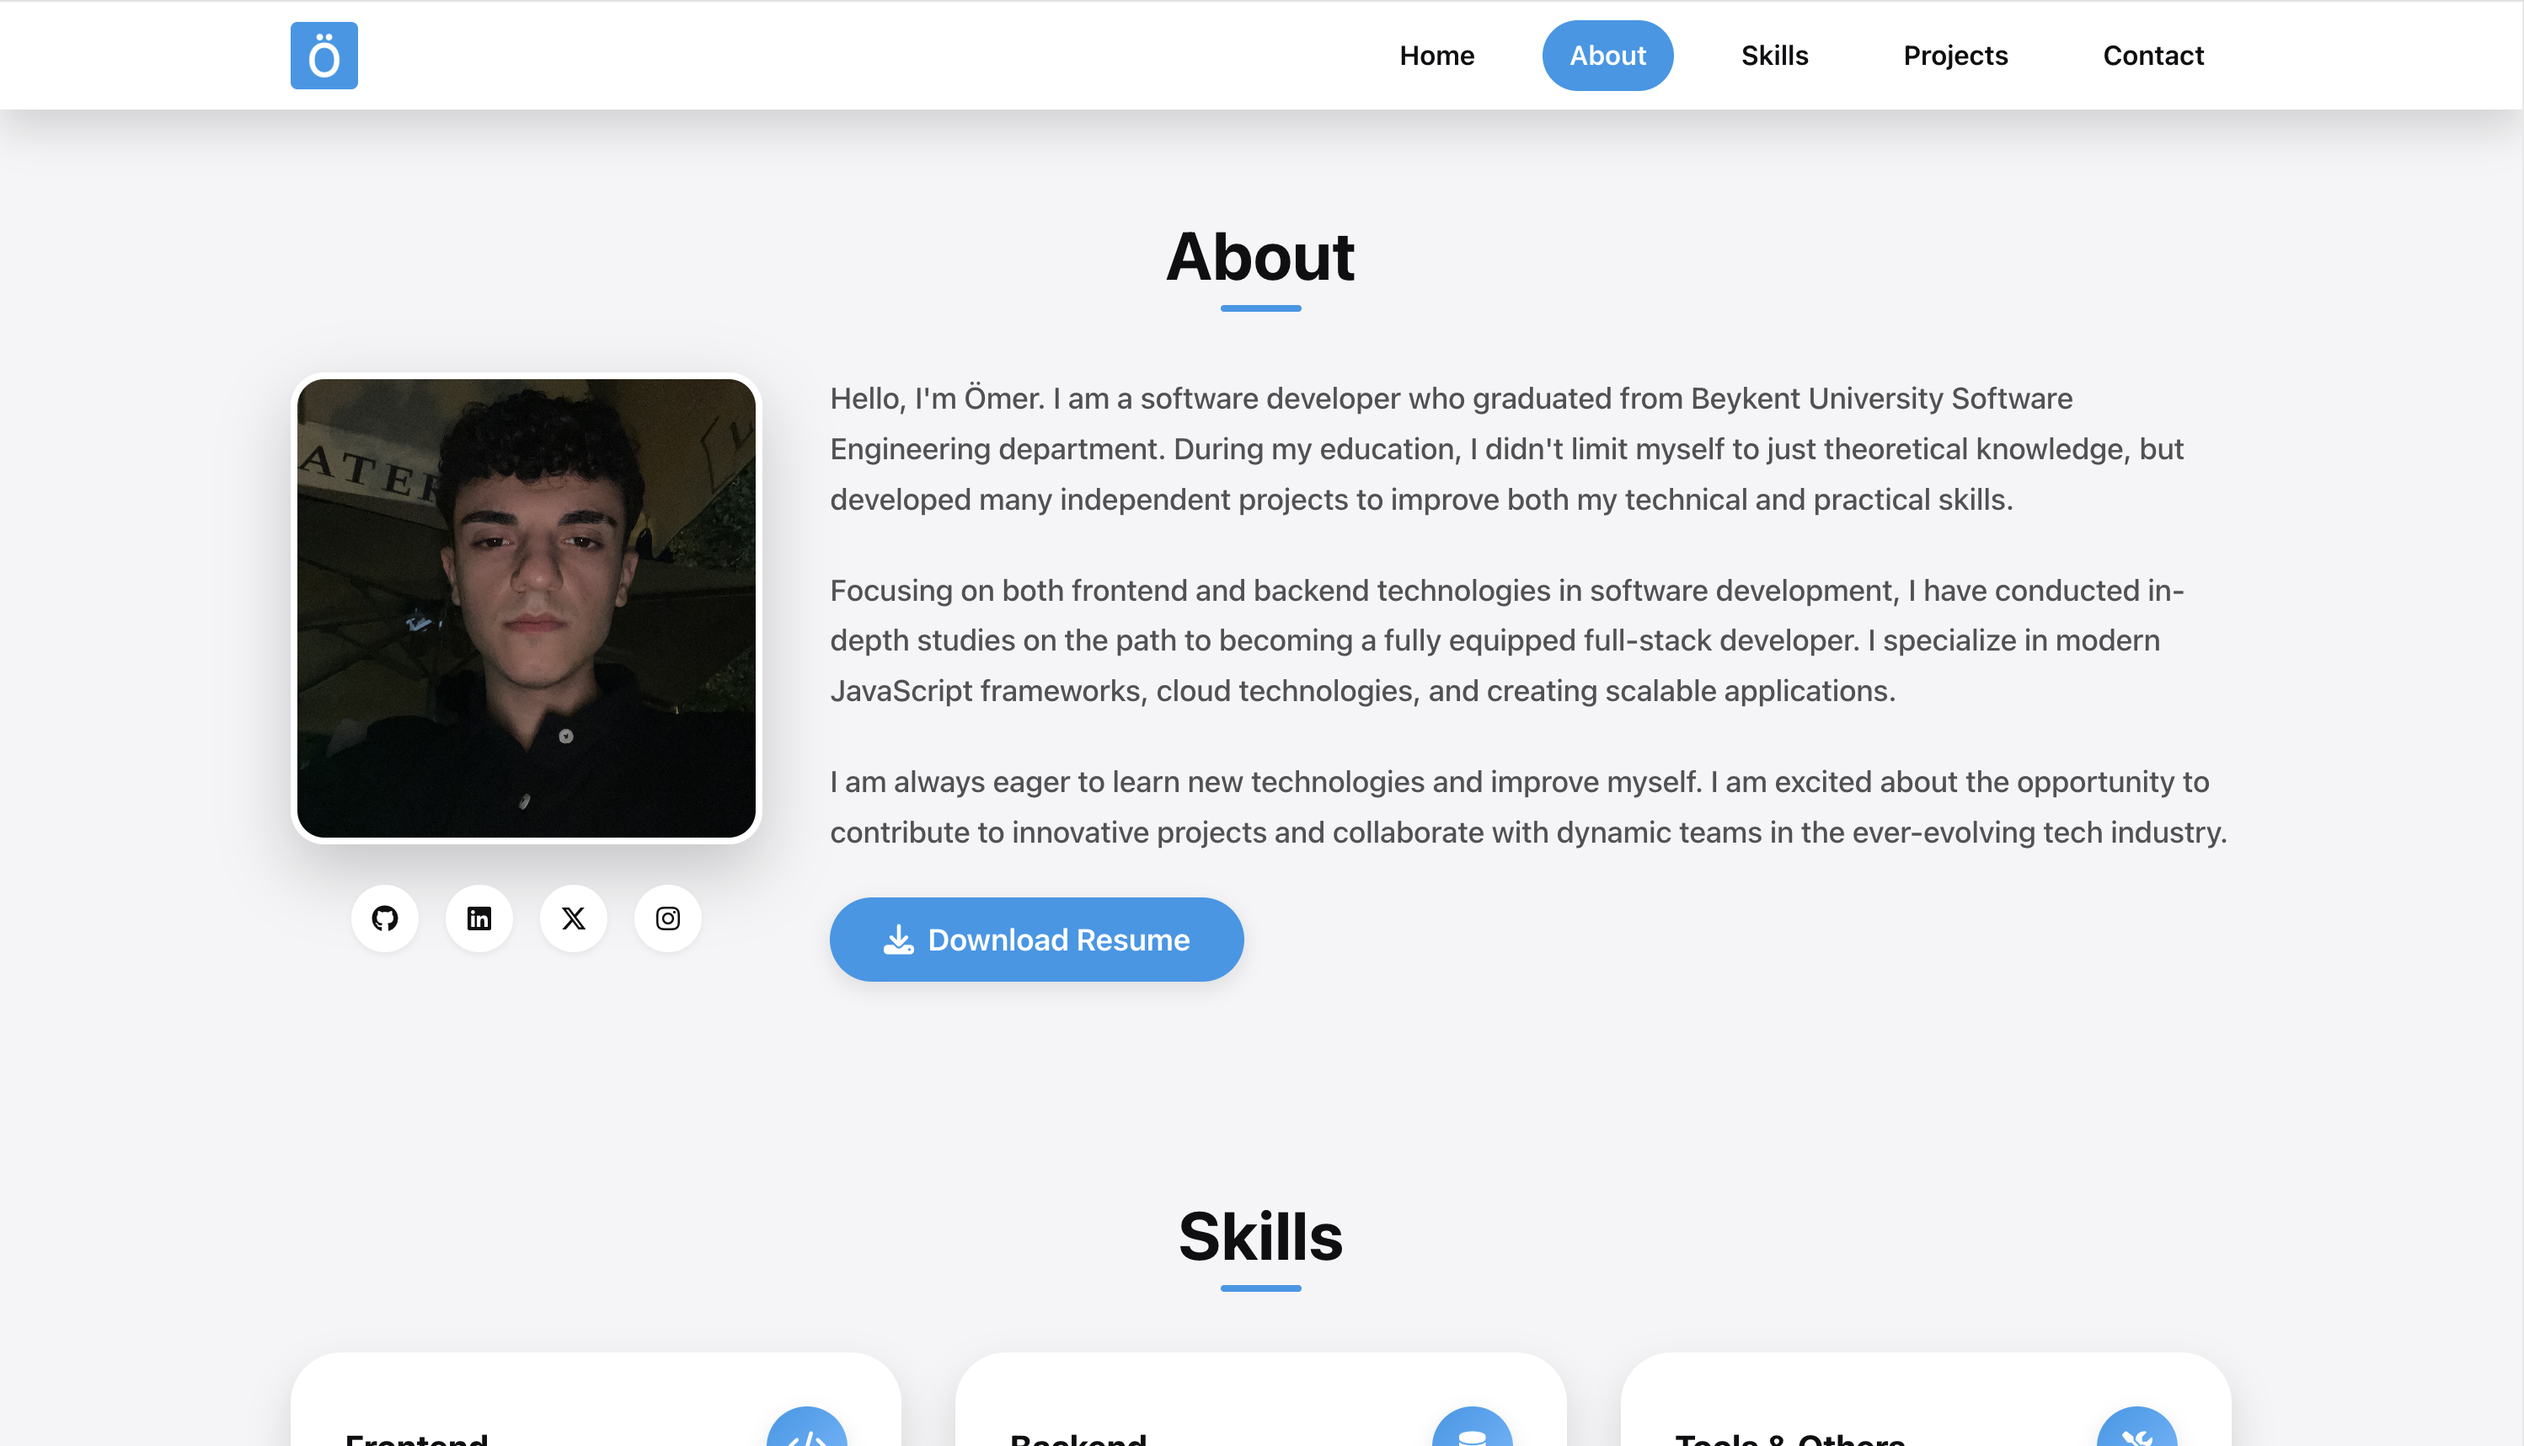
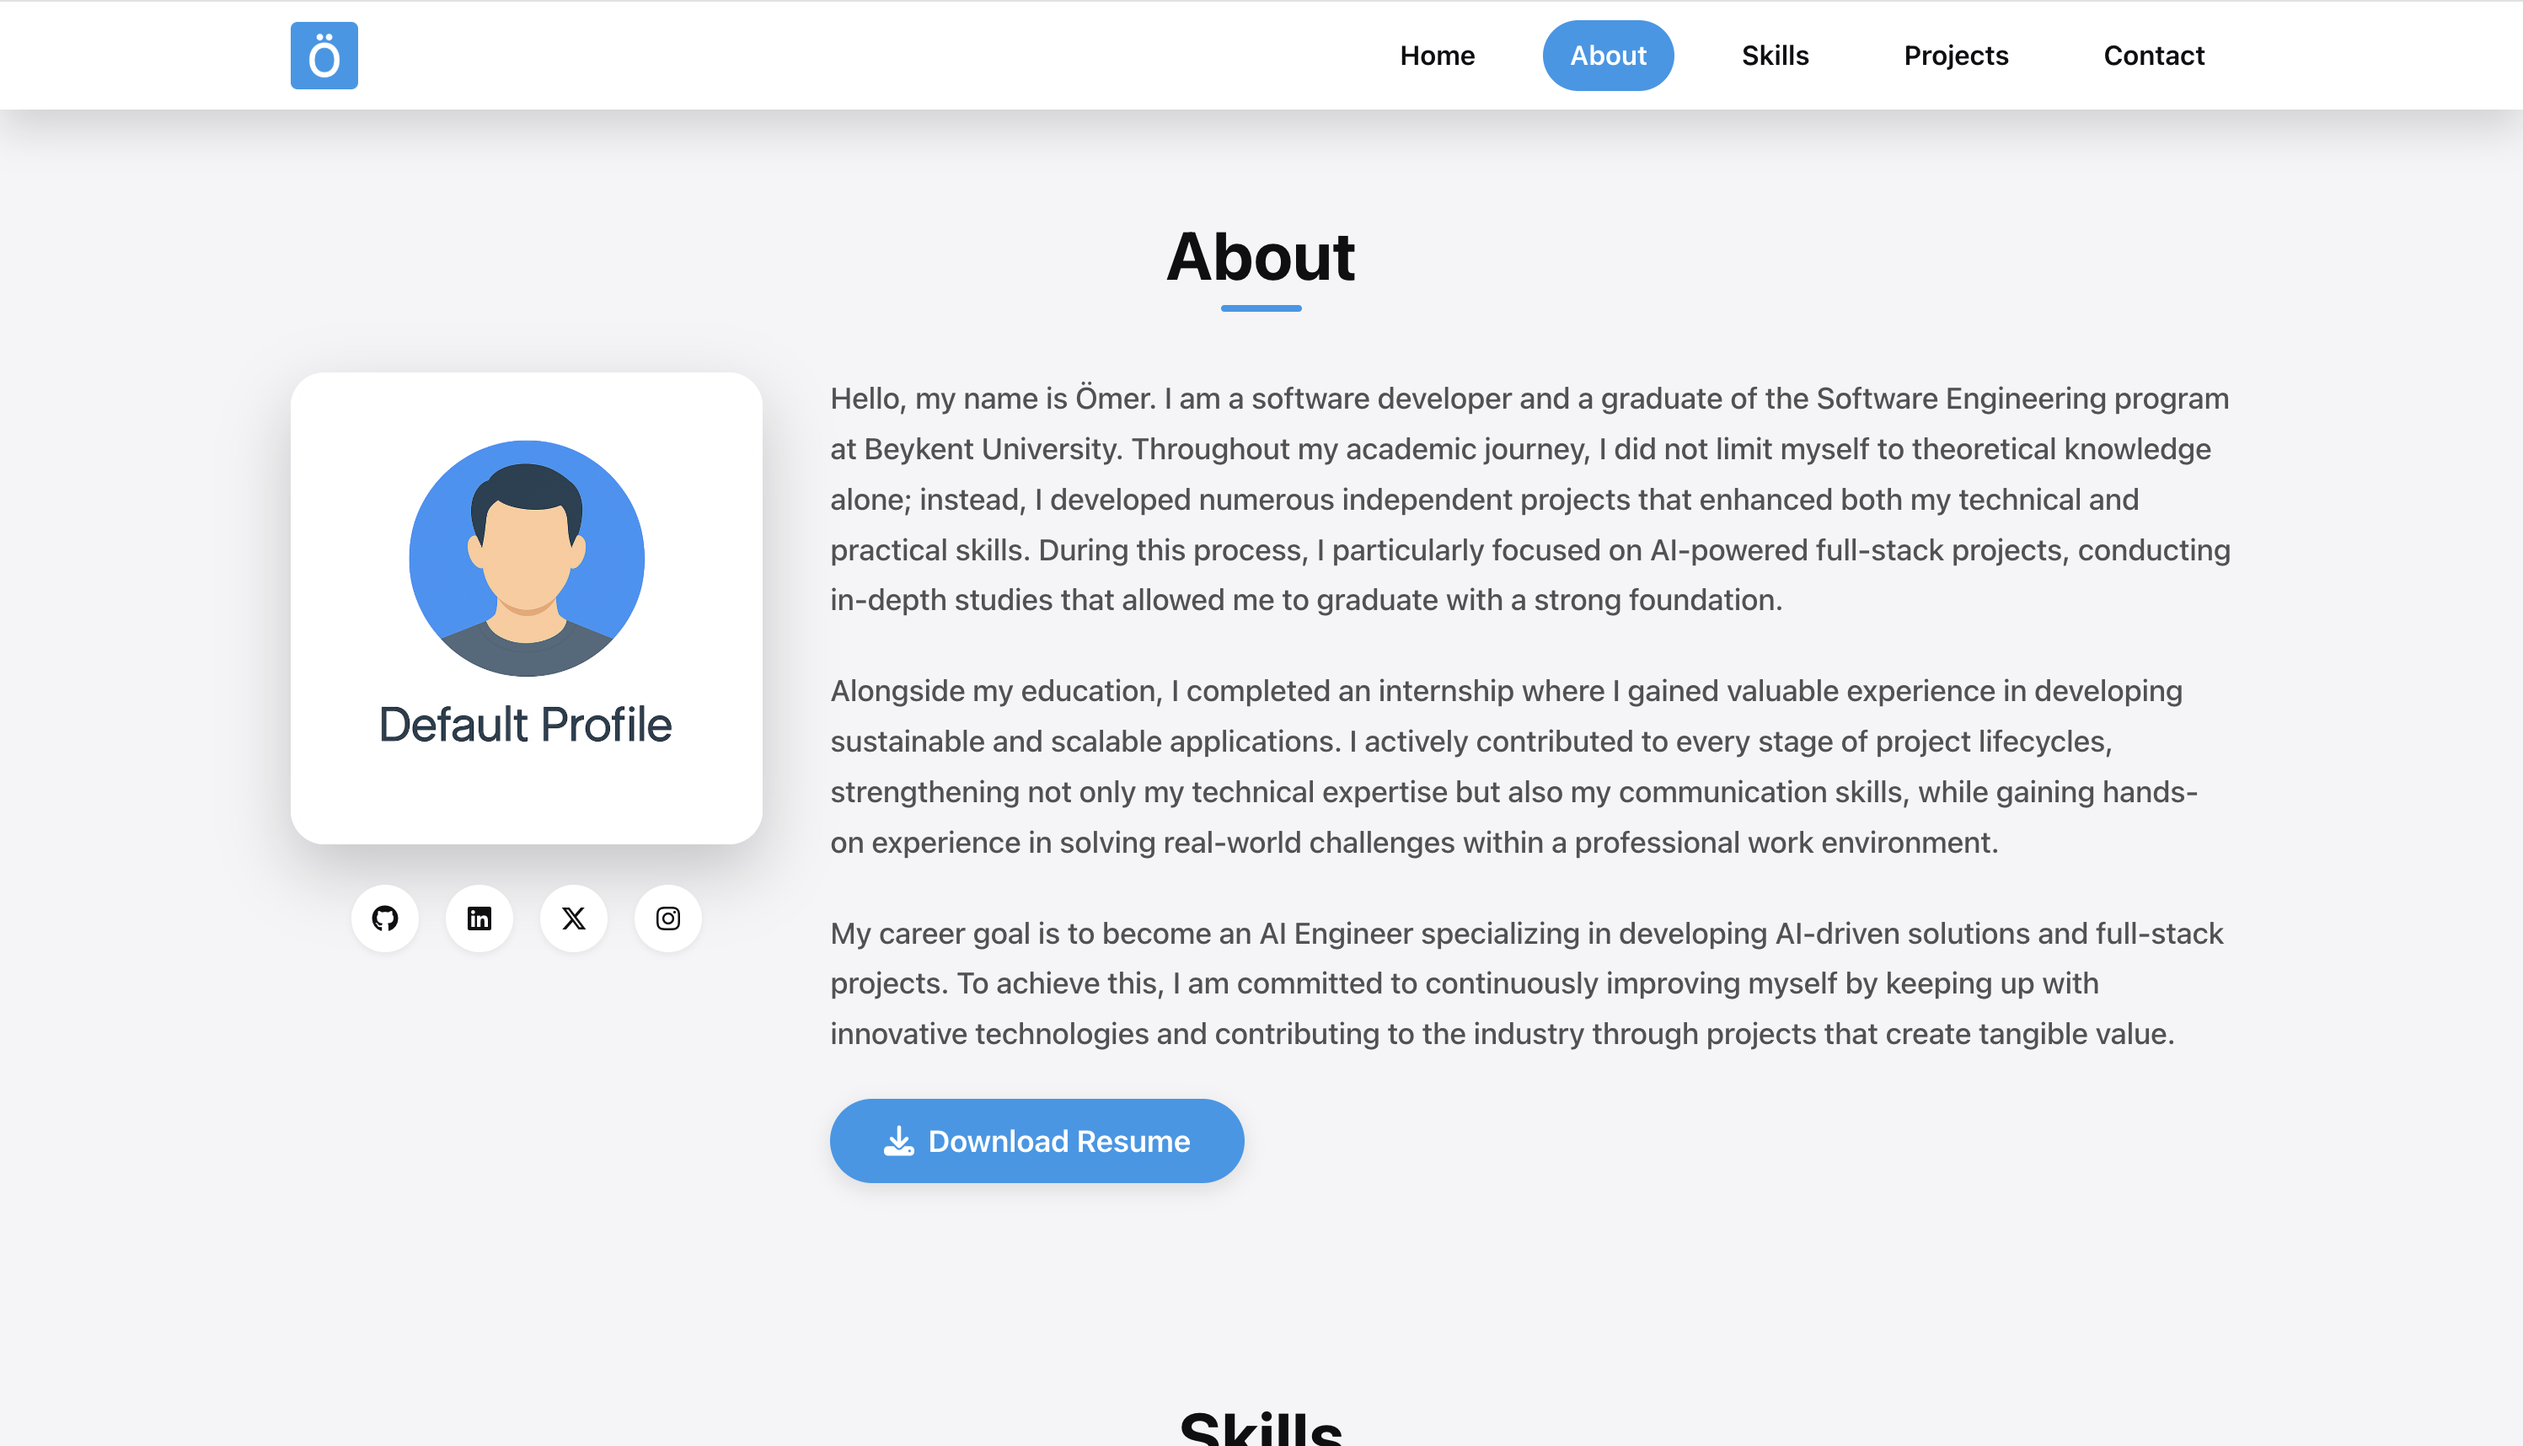
docs: update README

diff --git a/js/data.js b/js/data.js
@@ -20,11 +20,11 @@ window.HOME_DATA = {
 // ABOUT SECTION DATA
 // ===========================================
 window.ABOUT_DATA = {
-  profileImage: "assets/images/profile.jpg",
+  profileImage: "assets/images/projects/defaults/profile-default.png",
   description: [
-    "Hello, I'm Ömer. I am a software developer who graduated from Beykent University Software Engineering department. During my education, I didn't limit myself to just theoretical knowledge, but developed many independent projects to improve both my technical and practical skills.",
-    "Focusing on both frontend and backend technologies in software development, I have conducted in-depth studies on the path to becoming a fully equipped full-stack developer. I specialize in modern JavaScript frameworks, cloud technologies, and creating scalable applications.",
-    "I am always eager to learn new technologies and improve myself. I am excited about the opportunity to contribute to innovative projects and collaborate with dynamic teams in the ever-evolving tech industry."
+    "Hello, my name is Ömer. I am a software developer and a graduate of the Software Engineering program at Beykent University. Throughout my academic journey, I did not limit myself to theoretical knowledge alone; instead, I developed numerous independent projects that enhanced both my technical and practical skills. During this process, I particularly focused on AI-powered full-stack projects, conducting in-depth studies that allowed me to graduate with a strong foundation.",
+    "Alongside my education, I completed an internship where I gained valuable experience in developing sustainable and scalable applications. I actively contributed to every stage of project lifecycles, strengthening not only my technical expertise but also my communication skills, while gaining hands-on experience in solving real-world challenges within a professional work environment.",
+    "My career goal is to become an AI Engineer specializing in developing AI-driven solutions and full-stack projects. To achieve this, I am committed to continuously improving myself by keeping up with innovative technologies and contributing to the industry through projects that create tangible value."
   ],
   resumeLink: "assets/resume.pdf"
 };
@@ -121,8 +121,8 @@ window.CONTACT_DATA = {
       title: "Email",
       icon: "fas fa-envelope",
       type: "link",
-      value: "omer.oztoprak@example.com",
-      href: "mailto:omer.oztoprak@example.com"
+      value: "your.email@example.com",
+      href: "mailto:your.email@example.com"
     },
     {
       id: "location",

diff --git a/README.md b/README.md
@@ -4,9 +4,9 @@
 
 A sleek and professional personal portfolio website designed to showcase career achievements, development skills, project work, and contact information. Built with semantic HTML5, custom CSS3, and interactive JavaScript, using only core frontend technologies without external frameworks.
 
-## Live Demo
+## Live Site
 
-[View Live Demo](https://omeroztprk.github.io)
+[View Portfolio Website](https://omeroztprk.github.io)
 
 ## Features
 
@@ -50,9 +50,9 @@ A sleek and professional personal portfolio website designed to showcase career 
       </a><br/><sub>Projects</sub>
     </td>
     <td align="center">
-      <a href="assets/images/screenshots/modal.png">
-        <img src="assets/images/screenshots/modal.png" alt="Modal" width="260">
-      </a><br/><sub>Modal</sub>
+      <a href="assets/images/screenshots/project-details.png">
+        <img src="assets/images/screenshots/project-details.png" alt="Project Details" width="260">
+      </a><br/><sub>Project Details</sub>
     </td>
     <td align="center">
       <a href="assets/images/screenshots/contact.png">
